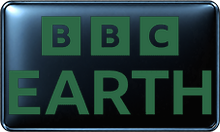
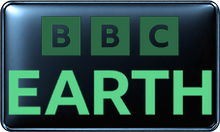
Repair eight more BLACK/WHITE variants

Changed region(s): [[0.0273, 0.5152, 0.9818, 0.8788]]

diff --git a/reports/black-white-qc-2026-10-09/batch-012/checkpoint.md b/reports/black-white-qc-2026-10-09/batch-012/checkpoint.md
@@ -1,0 +1,10 @@
+- Remote branch parent immediately before batch 012 push: `1b1eae810cf5198d12816a10d7c0d3f139ab9b5a`.
+# BLACK/WHITE QC batch 012
+
+- Remote branch baseline before this parallel batch: `e42b74943b0aa0d7efe3f8e6e18c4ebfb31f3a47`.
+- Pinned production renderer: `tools/rebuild_master_catalog.py` with immutable MASTER templates. Each pre-edit catalog PNG matched the original renderer pixel-for-pixel before repair.
+- Repaired 8 exact BLACK/WHITE output PNGs: 4 BBC Earth BLACK, 1 Spectrum BLACK, 2 Strike TV WHITE, 1 VZ Fri BLACK.
+- Masks were generated in memory from connected source-alpha components. Hue/saturation were preserved for all color adjustments. BBC green tiles and badge initials, the VZ emblem, the MASTER templates, and all transparent sources remain unchanged.
+- All repaired outputs decode as RGBA PNG at 220×132; output changes are confined to the mapped source-mask footprint, with alpha/geometry unchanged; only a 2-pixel Lanczos resampling footprint surrounds the mapped source edit mask.
+- See `repair-manifest.csv` and `batch-012-before-after.png` for per-file SHA-256, changed-pixel counts, original-render comparison, and mask visualization.
+- Last repaired identifier: `picons/0.8w/telenor/black/1_0_19_1CF7_47_46_E080000_0_0_0.png`. Next work should resume with the parent workflow’s next unprocessed candidate; this batch did not process a contiguous catalog interval.
